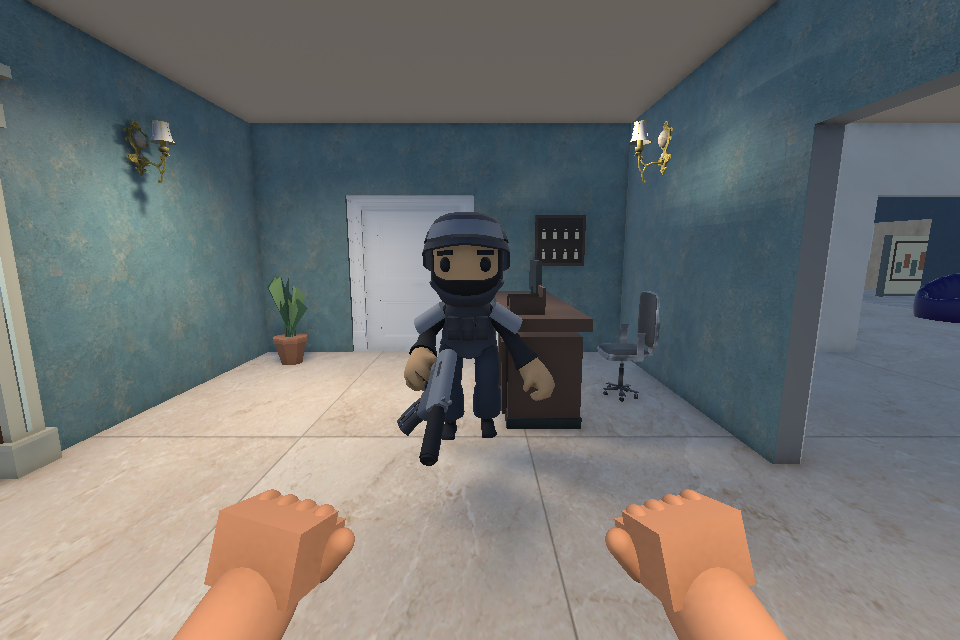
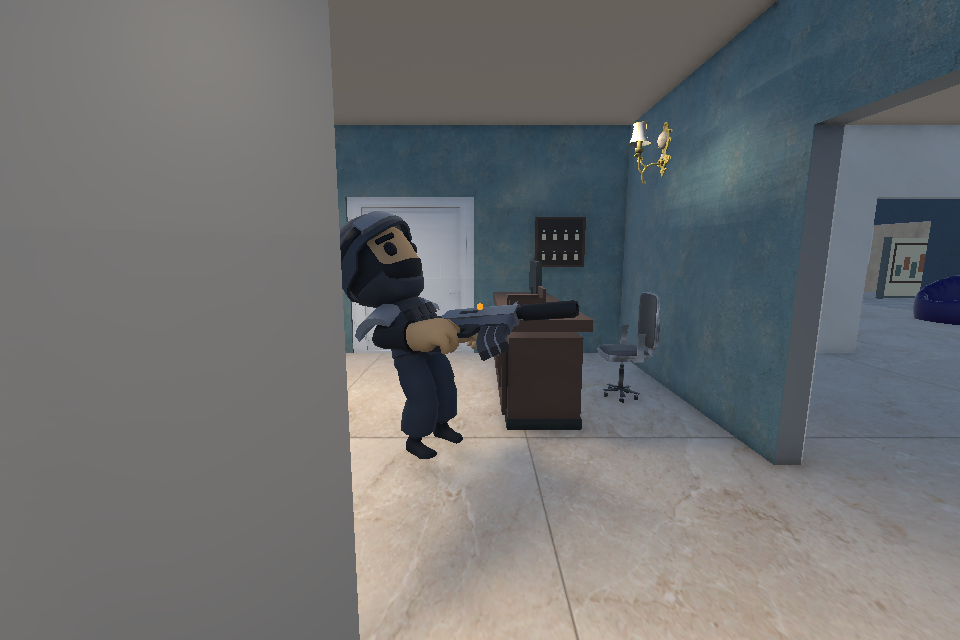
Docs: record arrest-first guard behavior and validation
Scope split from original commit 2b77252369eebfdb30a4f112900b51d6e4ebff5d.

diff --git a/Docs/AI/Sentinel.md b/Docs/AI/Sentinel.md
@@ -1,88 +1,86 @@
 # Sentinel / Pursuer
 
-The Unity museum pursuer implements a finite-state machine with **Patrol, Investigate, Chase, Attack, Search, Return and Dead** states. Its inputs are sight, sound snapshots, ally alerts, navigation status, elapsed time, target health and its own health. The HTML [Pursuer](../../game_html/src/enemy-ai.js) remains the behavior reference.
+The Unity museum pursuer is an **arrest-first guard**. It approaches a thief without firing, attempts handcuffs at close range, and chases/intercepts a fleeing thief. Only an attributed player hit authorizes armed retaliation. Once attacked, it advances while firing and may briefly use nearby forward cover. The HTML prototype is an earlier reference and does not implement this Unity arrest policy.
 
 ## Code ownership and review map
 
-Decision-making lives in [`Scripts/AI/Agents/Pursuer`](../../Assets/_Project/Scripts/AI/Agents/Pursuer):
+Decision-making lives in [`Scripts/AI/Agents/Pursuer`](../../Assets/_Project/Scripts/AI/Agents/Pursuer), assembly `Lockdown.AI.Agents`:
 
 | File | Responsibility |
 |---|---|
-| `PursuerAgent.cs` | FSM, priorities, remembered sightings and choosing actions. |
+| `PursuerAgent.cs` | FSM, priorities, evidence memory and choosing actions. |
 | `PursuerPerception.cs` | Sight, hearing, clue memory and ally alerts. |
+| `PursuerArrest.cs` | Continuous-contact arrest timing and cancellation. |
+| `PursuerInterception.cs` | Visible motion observations, expiring predictions and route-cost comparison. |
+| `PursuerAdvanceCover.cs` | Bounded selection of reachable forward cover after a hit. |
 | `PursuerInvestigation.cs`, `PursuerSearch.cs` | Investigation timing and bounded search candidates. |
 | `PursuerAttackCycle.cs` | Warning, burst and cooldown decisions. |
-| `PursuerFormation.cs` | Selecting distinct reachable approach positions. |
+| `PursuerFormation.cs` | Selecting distinct reachable approach positions during retaliation. |
 | `PursuerSettings.cs` | Configurable decision parameters. |
-| `PursuerStimulusRelay.cs` | Gameplay integration: translates weapon, movement and glass events into AI inputs. |
+| `PursuerStimulusRelay.cs` | Gameplay integration: weapon, movement and glass events become AI inputs. |
 
 Execution lives in [`Scripts/Runtime/Agents/Pursuer`](../../Assets/_Project/Scripts/Runtime/Agents/Pursuer), namespace `Lockdown.Agents.Pursuer`:
 
 | File | Responsibility |
 |---|---|
-| `PursuerController.cs` | Command boundary: move, stop, turn, fire, warning feedback and body shutdown. |
-| `PursuerNavigation.cs` | NavMesh paths, stopping distance, physical obstacle checks and movement progress. |
-| `PursuerLocomotion.cs` | Drives animation from actual velocity. |
-| `PursuerPresentation.cs` | Warning sound and shot, hit and death animation feedback. |
+| `PursuerController.cs` | Move, stop, turn, fire, arrest reach/capture, feedback, attributed-hit events and body shutdown. |
+| `PursuerNavigation.cs` | NavMesh path queries, movement, physical obstacle checks and progress. |
+| `PursuerLocomotion.cs` | Animation from actual velocity. |
+| `PursuerPresentation.cs` | Warning sound, arrest/status HUD, shot/hit/death animation feedback. |
 
-The dependency is `Lockdown.AI.Agents` → `Lockdown.Runtime`. Runtime controls do not reference the AI assembly or choose FSM states. The brain asks the controller to act and reads execution results. Shared `Runtime/Enemies/EnemyShooting.cs` and `Runtime/Combat/Health.cs` remain reusable execution components. Editor builders and verification stay in `Scripts/Editor`; they are not gameplay decision code.
+Dependencies point from AI to Runtime. Runtime never references the AI assembly or chooses FSM states. Shared `Runtime/Enemies/EnemyShooting.cs` and `Runtime/Combat/Health.cs` execute shooting and damage. `Runtime/Player/PlayerVitals.cs` owns capture, control lock and restart. `FirstPersonWeapon.cs` supplies the actual player as damage instigator; other `IDamageable` implementations keep their existing damage API. Builders and verification remain under `Scripts/Editor`.
 
-Existing script GUIDs are preserved and moved components declare their previous namespace/assembly for Unity serialization. The gameplay prefab contains the controller explicitly. This separation changes code ownership, not gunshot/damage reaction policies.
+Script GUIDs and original enum values are preserved. New states are appended for serialized compatibility. The gameplay prefab explicitly contains its runtime controller.
 
 ## Decisions and transitions
 
 | State | Behavior | Exit condition |
 |---|---|---|
-| Patrol | Loop through the four assigned reachable waypoints at 2 m/s. | Sight starts pursuit/combat; a noise or alert starts investigation. |
-| Investigate | Walk to the clue location, then inspect for 1.5 seconds. | A sighting interrupts it; arrival/timeout or a blocked route starts a local search. |
-| Chase | Run at 4 m/s toward the visible player, a validated flank position, or the last confirmed position. | A clear firing opportunity starts Attack; three seconds without sight starts Search. |
-| Attack | Stop, face the target, warn for 0.65 seconds, fire up to three shots at 0.18-second intervals, then cool down for 1.5 seconds. | Lost sight cancels the burst; leaving firing conditions resumes Chase. |
-| Search | Check up to 17 reachable positions around the clue/last sighting within a 3 m radius; scan when candidates are exhausted. | A sighting interrupts it; the 14-second search budget ends in Return. |
-| Return | Navigate toward the nearest reachable patrol waypoint. | Reaching the route resumes Patrol; new evidence may interrupt. |
-| Dead | Stop navigation and shooting, disable colliders, release the formation slot, and play death animation. | Terminal for this spawned character; restarting the encounter creates a fresh instance. |
+| Patrol | Loop through the four reachable waypoints at 2 m/s. | Sight starts Approach; noise/alert starts Investigate. |
+| Approach | Close at 2.8 m/s with an arrest warning; never fire. | Clear reach starts Arrest; observed fleeing starts Chase/Intercept; an attributed hit authorizes retaliation. |
+| Arrest | Stop within 1.6 m and maintain unobstructed reach for 1.5 seconds; show an escape warning and progress bar. | Leaving reach or breaking sight cancels progress; completion captures the actual player; a hit interrupts arrest. |
+| Chase | Run at 4 m/s toward the last confirmed location. Running alone never authorizes fire. | Useful prediction starts Intercept; clear reach starts Arrest; three seconds without evidence starts Search. |
+| Intercept | Navigate to a predicted ahead position using a complete NavMesh route. | Replan from visible movement; fall back to Chase when no useful shortcut exists; unseen prediction expires after two seconds. |
+| Attack | After a player hit, close at 2.8 m/s to a 2.8 m standoff while firing warned three-shot bursts. | Lost sight cancels fire; range or obstacles require pursuit. |
+| AdvanceCover | After a hit, use a reachable forward cover position for at most 1.1 seconds; fire only with a clear shot. | Resume armed pressure; six-second selection cooldown; no retreat positions. |
+| Investigate | Walk to a clue snapshot, then inspect for 1.5 seconds. | Sight interrupts; arrival/timeout or blocked route starts Search. |
+| Search | Check up to 17 reachable positions within 3 m of the last evidence. | Sight interrupts; 14-second budget ends in Return. |
+| Return | Navigate to the nearest reachable patrol waypoint. | Reaching the route resumes Patrol; evidence can interrupt. |
+| Caught | Stop pursuing the captured thief; player controls are disabled without lethal damage. | Player restarts the encounter. |
+| Dead | Stop navigation/fire, disable colliders, release formation slot and play death animation. | Terminal for this instance. |
 
-Death has highest priority. Direct sight overrides clues. Pursuit and search are not redirected by lower-priority sounds. No utility scoring is required for these explicit FSM decisions.
+Death has highest priority. Sight overrides clues. A confirmed player hit interrupts arrest and enables retaliation for this guard's lifetime. Fleeing, merely equipping a gun, shooting elsewhere, and unattributed environmental damage do not authorize shooting. Restart creates a fresh non-hostile guard.
 
-## Perception, memory and communication
+## Interception and aggressive cover
 
-- A new player is acquired within 20 m and a 100-degree horizontal cone. While pursuing, navigation turns do not discard an unobstructed target.
-- Solid colliders block sight. Trigger colliders and the two characters' own colliders are ignored. An inactive or dead target is not visible.
-- Only confirmed sightings update the remembered player position. The pursuer follows that snapshot for three seconds after losing sight; it cannot follow unseen movements through a wall.
-- One `PursuerStimulusRelay` connects broken glass, player footsteps/sprinting and fired pistol shots to the existing `HoundNoiseBus`. Audio playback alone is not a clue.
-- Hearing respects the sound's radius, a 24 m maximum range, age, and wall attenuation. Gunshots outrank distractions, which outrank footsteps.
-- Confirmed sightings broadcast position snapshots to nearby allies, at most once per second. Recipients investigate without rebroadcasting, preventing alert loops.
+`PursuerInterception` estimates planar velocity from consecutive visible positions. Reacquisition after hidden movement, large observation gaps and teleports reset the estimate. Every 0.5 seconds, and immediately when fleeing begins, it compares three ahead positions up to 1.5 seconds ahead. It measures complete route lengths from guard to player, player to prediction and guard to prediction. A candidate must save at least 0.6 m against following the player's route and have a plausible arrival time (no more than 0.75 seconds late). The score penalizes late arrival. Unreachable or unhelpful predictions fall back to direct pursuit.
 
-## Movement and cooperation
+Predictions are guesses, not guaranteed exit choices. They expire after two seconds without replanning from visible motion. Hidden player transforms never update the prediction. This is a custom interception decision over Unity's built-in NavMesh pathfinding, not a separately implemented A* algorithm.
 
-`PursuerNavigation` validates complete baked-NavMesh paths and samples nearby walkable destinations. Physical capsule sweeps stop movement at newly closed solid doors while obstacle carving catches up. Routes can fail or time out instead of repeatedly pushing through geometry.
+Cover candidates must move at least 0.3 m closer to the threat, have a complete route of at most 4.5 m, and be screened by solid geometry. No suitable candidate means keep advancing. Brief cover and a cooldown prevent persistent hiding. Additional guards may reserve distinct reachable flank slots during retaliation; the museum currently has one guard.
 
-The direct pursuer can attack as soon as firing conditions are met. Additional pursuers sharing a target select distinct flank slots, subject to complete-path and clear-shot validation. Unreachable flanks fall back to direct pursuit. Disable/death removes the character from formation membership.
+`PursuerNavigation` validates complete baked-NavMesh routes and nearby walkable samples. Physical capsule sweeps stop at solid doors while carving catches up. Routes can fail or time out instead of repeatedly pushing through geometry.
 
-The museum currently contains one pursuer. Distinct formation slots and unreachable-slot fallback are covered by automated component tests; a large-pack performance benchmark has not been performed.
+## Evidence and combat
 
-## Weapon, damage and presentation
+Sight acquires a target within 20 m and a 100-degree horizontal cone. Tracking an established contact ignores the acquisition cone; walls still block sight. Trigger colliders and the characters' own colliders are ignored. Inactive/dead targets are not visible. A player hit supplies one impact-time attacker-position snapshot, including a hit from behind; it never grants later access to hidden movement. Confirmed evidence is retained for three seconds before searching.
 
-The existing `EnemyShooting` component runs in explicit AI-controlled mode on this prefab. The FSM owns warning, burst and cooldown timing; the weapon executes hits, tracers, muzzle flashes and sound. The legacy wandering enemy has been removed from Museum_Main; its reusable prefab retains autonomous shooting for regression fixtures.
+The existing sound relay and hearing code remain: glass, footsteps and pistol shots publish snapshots; hearing applies range, age and wall attenuation. Active pursuit/search do not redirect to lower-priority noise. **Player-reported unreliable gunshot hearing remains a separate unresolved issue.** Retaliation uses attributed bullet damage and does not depend on that hearing path. Nearby confirmed sightings broadcast snapshots without recursive alert loops.
 
-Shots check both body visibility and the muzzle-to-player line; solid blockers and other characters can block damage. Each successful pursuer shot deals 10 damage. The pursuer uses the shared 100-health `Health` component and can be killed with the player's weapons.
+`EnemyShooting` is explicitly controlled by the brain through `PursuerController`. After provocation, a 0.65-second warning precedes up to three 10-damage shots spaced 0.18 seconds apart, with a 1.5-second cooldown. Both body and muzzle sightlines must be clear. Losing sight cancels the burst. The guard has 100 health. The legacy wandering enemy is absent from Museum_Main; its prefab remains for regression fixtures.
 
-Imported animations cover idle, walk, armed run, shots, hit reactions and death. A warning tone precedes firing. Root motion is disabled; navigation owns movement. The Inspector shows the current state, decision reason, visibility and last confirmed position in Play Mode.
+Capture shows **Caught - handcuffed**, releases the cursor, and disables movement, equipment and weapons. Restart reloads the encounter with restored health, controls and a non-hostile guard. The arrest attempt is represented by a timed HUD; a dedicated handcuff animation/prop has not been authored. Existing imported locomotion, firing, hit and death animations remain.
 
 ## Setup and validation
 
-Open `Museum_Main` in Edit mode and use **Tools > Lockdown > Connect Pursuer AI in Museum** to rebuild the gameplay prefab, reconnect the actual player, validate four patrol waypoints, and add the scene's single gameplay-signal relay. A dirty scene is copied to `Assets/_Recovery` before setup saves it. The presentation-only prefab remains separate.
+Open Museum_Main in Edit mode. **Tools > Lockdown > Connect Pursuer AI in Museum** rebuilds the gameplay prefab, assigns the actual player and four patrol points, and connects the existing signal relay. Dirty scene work is backed up under `Assets/_Recovery`. Routine tactics updates preserve prefab/scene references rather than rebuilding the environment.
 
-Tune the serialized `PursuerSettings` on the agent. The gameplay prefab requires a player target and patrol points when instantiated outside the museum setup.
+Tune `PursuerSettings` on the brain. The gameplay prefab needs a player target and patrol points outside museum setup. The Inspector exposes state, decision reason, visibility, last confirmed position, retaliation, arrest progress and the interception prediction.
 
-- Nine NUnit Edit Mode tests cover warning/burst timing, cancellation, failed shots, investigation timing, bounded search, sight/occlusion, and formation slots.
-- Legacy combat tests instantiate their own wandering-guard prefab and isolate the pursuer. The saved museum contains only the pursuer.
-- The editor-only `PursuerAIVerification` exercises the actual museum: patrol, chase, turning, occlusion, memory, search/return, noise investigation, real player damage, blocked shots, death cleanup and animation.
-- Runtime checks temporarily shorten inspection/search timers for speed; the saved prefab retains 1.5-second inspection and 14-second search defaults. Test objects and player movements are never saved.
-- Decision timing is recorded with `Pursuer.Decision`. See [the performance log](../AIPerformanceLog.md) and [verification report](../Characters/PursuerAIVerification.txt).
-- Repeat the museum check with `-executeMethod Lockdown.Editor.PursuerAIVerification.RunBatch` in a Unity batch session, without `-quit`; the verifier exits with the result.
+The decision suite covers attack timing, investigation, bounded search, sight, formations, continuous arrest cancellation, observed-motion validity, route savings/arrival feasibility and forward-only cover. The museum verifier exercises actual NavMesh interception, no-fire first contact, arrest/escape, a real player pistol hit from behind, retaliation, pressure, wall blocking, death, capture and restart. Temporary shortened timers and test objects are never saved. Legacy combat tests instantiate test-only guards.
+
+Results and mixed-scenario decision timings are recorded in [the encounter report](../Characters/PursuerAIVerification.txt), [NUnit results](../Characters/PursuerDecisionTests.xml) and [performance log](../AIPerformanceLog.md). These samples are not a steady-state or multi-agent benchmark. Run the museum verifier via the editor request hook or `-executeMethod Lockdown.Editor.PursuerAIVerification.RunBatch` in a separate Unity batch session, without `-quit`.
 
 ## Scope limits
 
-This completes the planned pursuer FSM and its game integration. It does not implement melee, opening doors, adaptive learning, or dynamic spawning. Spawning remains a separate agent's responsibility. Firing uses the existing hitscan weapon rather than the HTML prototype's flying bolts; it does not reproduce that projectile-dodging model or its locked-aim window. The Unity investigation/chase timings are configurable and differ from the HTML reference's two-second loss timer.
-
-A hierarchical FSM, behavior tree, utility-scoring pursuer, or learned policy must not be reported as implemented. The architecture here is an explicit FSM with perception, short-term memory, prioritized evidence, bounded local search and coordinated approach selection.
+No punching/melee attack, door opening, adaptive learning, dynamic spawning, bespoke handcuff animation, or reliable player gunshot-hearing fix is claimed. This is an explicit FSM with evidence memory, bounded search, route-based prediction and tactical forward-cover selection. It is not a behavior tree, hierarchical FSM, learned policy or general utility-scoring system. Interception does not guarantee catching a sprinting player and does not know their intended destination.

diff --git a/Docs/AIPerformanceLog.md b/Docs/AIPerformanceLog.md
@@ -7,6 +7,7 @@ Identify runtime (HTML or Unity), commit, hardware, room/scene, population and r
 | Date / commit | Runtime and conditions | Agent / scenario | Decision or path cost | Frame / allocation impact | Behavior result and evidence |
 |---|---|---|---|---|---|
 | Not measured | Baseline pending | Selected four-agent scope | Pending | Pending | Record actual checks and measurements |
+| 2026-10-21 / Ai/pursuer-completion, arrest-first tactics | Unity 6000.6.3f1; Museum_Main; one pursuer; interactive Editor | Actual route interception, approach/arrest/escape, real pistol provocation from behind, forward cover/retaliation, death, capture and restart | `Pursuer.Decision`: 723 frames, mean 110.53 microseconds, maximum 5943.10 microseconds | Rendering, animation, native navigation updates and managed allocations were not measured | 48 integration assertions, 16 decision/component tests and four legacy combat tests passed. These mixed editor samples are not a controlled performance comparison. Latest [report](Characters/PursuerAIVerification.txt); [tactics and limitations](AI/Sentinel.md). |
 | 2026-10-21 / Ai/pursuer-completion, controller separation | Unity 6000.6.3f1; Museum_Main; one pursuer; interactive Editor session | Same mixed encounter checks with AI decisions calling the separate runtime controller | `Pursuer.Decision`: 607 recorded frames, mean 87.98 microseconds, maximum 3276.40 microseconds | Rendering, animation, native navigation updates and managed allocations were not measured | 28 integration assertions and nine NUnit decision/component tests passed. Functional refactor verification; editor samples are not a controlled before/after performance comparison. See [the report](Characters/PursuerAIVerification.txt) and [code ownership map](AI/Sentinel.md#code-ownership-and-review-map). |
 | 2026-10-21 / Ai/pursuer-completion | Unity 6000.6.3f1, Windows 11, DX11, RTX 4050 Laptop GPU, 16087 MB RAM; Museum_Main; one pursuer; interactive Editor session | Mixed patrol, chase, occlusion, search, investigation, attack and death integration scenario | `Pursuer.Decision`: 616 recorded frames, mean 44.78 microseconds, maximum 2113.40 microseconds | Rendering, animation, native navigation updates and managed allocations were not measured | 27 functional integration assertions passed. Nine separate NUnit decision/component tests passed. This is a mixed-scenario marker sample, not a steady-state or multi-agent performance guarantee. See [the report](Characters/PursuerAIVerification.txt) and [implementation](AI/Sentinel.md). |
 | 2026-10-19 / feature/interactive-doors (base de67995) | Unity 6000.6.3f1, Museum_Main; seven interior doors; functional checks only | Door collision and navigation integration | Not measured | Not measured | Five Play Mode door tests passed; every interior door opened/closed through player interaction. Closed/open player passage and obstacle carving configuration checked; security-door screenshots visually checked. Local evidence: Temp/DoorsVerification/results.xml, door-closed.png, door-open.png. Enemy routes and carving timing were not measured. See [door notes](PlayerDoors.md) for the pre-existing missing exterior prefab and blocked loot regression tests. |

diff --git a/Docs/Characters/README.md b/Docs/Characters/README.md
@@ -1,10 +1,10 @@
 # Pursuer verification artifacts
 
-- `PursuerAimWarning.png`, `PursuerAttack.png`, `PursuerDeath.png`: current gameplay character, captured from the actual museum player camera during automated verification.
-- `PursuerAIVerification.txt`: 28 full-encounter integration assertions after separating the runtime controller from AI decisions, and the recorded decision marker timings.
-- `PursuerDecisionTests.xml`: nine NUnit tests for perception, attack timing, investigation, search and formation behavior.
+- `PursuerArrest.png`, `PursuerIntercept.png`, `PursuerAimWarning.png`, `PursuerAttack.png`, `PursuerDeath.png`: current gameplay character captured from the museum player camera during arrest-first encounter verification. Camera captures exclude the OnGUI arrest/status HUD; the arrest image is not evidence of a bespoke handcuff animation.
+- `PursuerAIVerification.txt`: 48 full-encounter assertions covering actual route interception, arrest/escape, a real pistol hit from behind, retaliation, forward cover expiry, capture and restart, plus recorded decision marker timings.
+- `PursuerDecisionTests.xml`: 16 NUnit tests for perception, attack timing, investigation, search, formations, arrest timing, observed-motion prediction, route selection and forward cover.
 - `PursuerWandererRegression.xml`: four passing legacy combat tests after removing the museum wanderer. These instantiate test-only prefab fixtures and isolate the pursuer; the saved museum contains no wandering enemy.
 
-Earlier character-development evidence is retained: `PursuerPreview.png` and `PursuerValidation.txt` concern the presentation-only import; `PursuerInGame.png` and `PursuerPlayModeValidation.json` show initial scene placement; `PursuerAIInGame.png` shows the earlier patrol/chase integration. Those files do not describe the completed seven-state FSM.
+Earlier character-development evidence is retained: `PursuerPreview.png` and `PursuerValidation.txt` concern the presentation-only import; `PursuerInGame.png` and `PursuerPlayModeValidation.json` show initial scene placement; `PursuerAIInGame.png` shows the earlier patrol/chase integration. Those files predate arrest-first behaviour.
 
 The implementation, defaults, repeatable checks and remaining scope limits are documented in [the pursuer specification](../AI/Sentinel.md).
